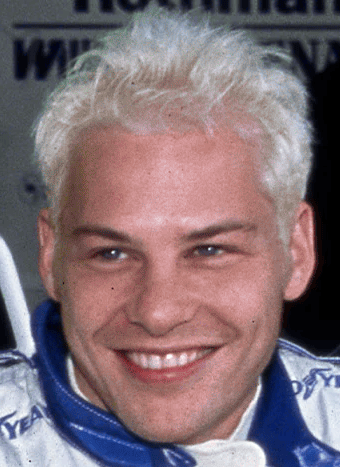
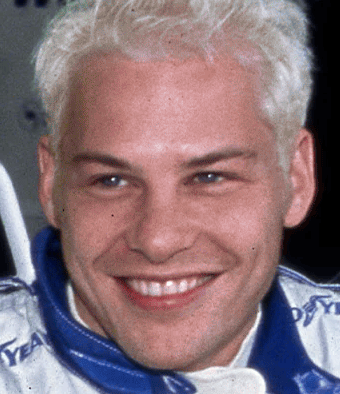
Ajustements affichage des images

diff --git a/src/components/historyChampions/historyDriversChampions/DriversChampions1950s.tsx b/src/components/historyChampions/historyDriversChampions/DriversChampions1950s.tsx
@@ -120,7 +120,7 @@ const styles = StyleSheet.create({
     driverImage:{
         height: 65,
         width: 65,
-        resizeMode: 'contain',
+        resizeMode: 'cover',
         borderRadius: 65,
     }
 })

diff --git a/src/components/historyChampions/historyDriversChampions/DriversChampions1960s.tsx b/src/components/historyChampions/historyDriversChampions/DriversChampions1960s.tsx
@@ -120,7 +120,7 @@ const styles = StyleSheet.create({
     driverImage:{
         height: 65,
         width: 65,
-        resizeMode: 'contain',
+        resizeMode: 'cover',
         borderRadius: 65,
     }
 })

diff --git a/src/components/historyChampions/historyDriversChampions/DriversChampions1970s.tsx b/src/components/historyChampions/historyDriversChampions/DriversChampions1970s.tsx
@@ -120,7 +120,7 @@ const styles = StyleSheet.create({
     driverImage:{
         height: 65,
         width: 65,
-        resizeMode: 'contain',
+        resizeMode: 'cover',
         borderRadius: 65,
     }
 })

diff --git a/src/components/historyChampions/historyDriversChampions/DriversChampions1980s.tsx b/src/components/historyChampions/historyDriversChampions/DriversChampions1980s.tsx
@@ -120,7 +120,7 @@ const styles = StyleSheet.create({
     driverImage:{
         height: 65,
         width: 65,
-        resizeMode: 'contain',
+        resizeMode: 'cover',
         borderRadius: 65,
     }
 })

diff --git a/src/components/historyChampions/historyDriversChampions/DriversChampions1990s.tsx b/src/components/historyChampions/historyDriversChampions/DriversChampions1990s.tsx
@@ -120,7 +120,7 @@ const styles = StyleSheet.create({
     driverImage:{
         height: 65,
         width: 65,
-        resizeMode: 'contain',
+        resizeMode: 'cover',
         borderRadius: 65,
     }
 })

diff --git a/src/components/historyChampions/historyDriversChampions/DriversChampions2000s.tsx b/src/components/historyChampions/historyDriversChampions/DriversChampions2000s.tsx
@@ -120,7 +120,7 @@ const styles = StyleSheet.create({
     driverImage:{
         height: 65,
         width: 65,
-        resizeMode: 'contain',
+        resizeMode: 'cover',
         borderRadius: 65,
     }
 })

diff --git a/src/components/historyChampions/historyDriversChampions/DriversChampions2010s.tsx b/src/components/historyChampions/historyDriversChampions/DriversChampions2010s.tsx
@@ -120,7 +120,7 @@ const styles = StyleSheet.create({
     driverImage:{
         height: 65,
         width: 65,
-        resizeMode: 'contain',
+        resizeMode: 'cover',
         borderRadius: 65,
     }
 })

diff --git a/src/components/historyChampions/historyDriversChampions/DriversChampions2020s.tsx b/src/components/historyChampions/historyDriversChampions/DriversChampions2020s.tsx
@@ -120,7 +120,7 @@ const styles = StyleSheet.create({
     driverImage:{
         height: 65,
         width: 65,
-        resizeMode: 'contain',
+        resizeMode: 'cover',
         borderRadius: 65,
     }
 })
